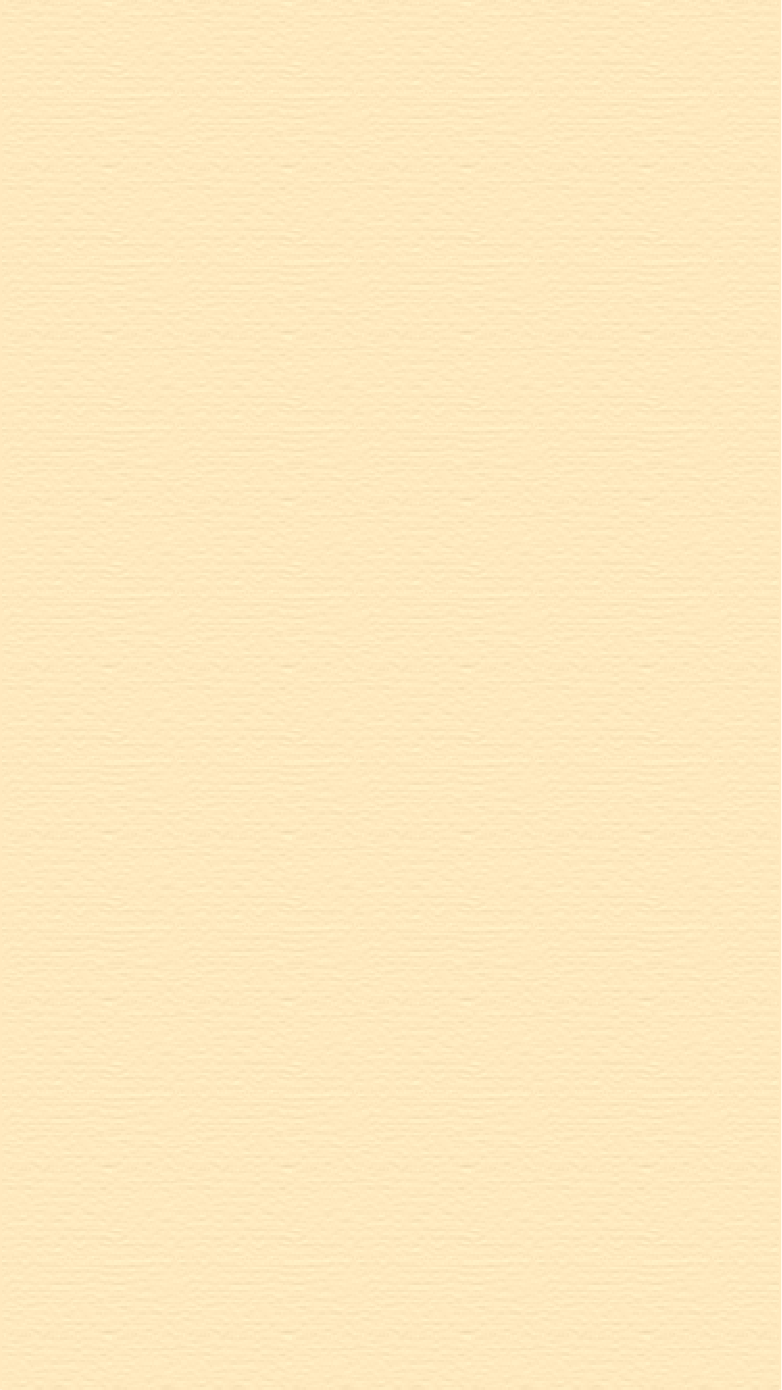
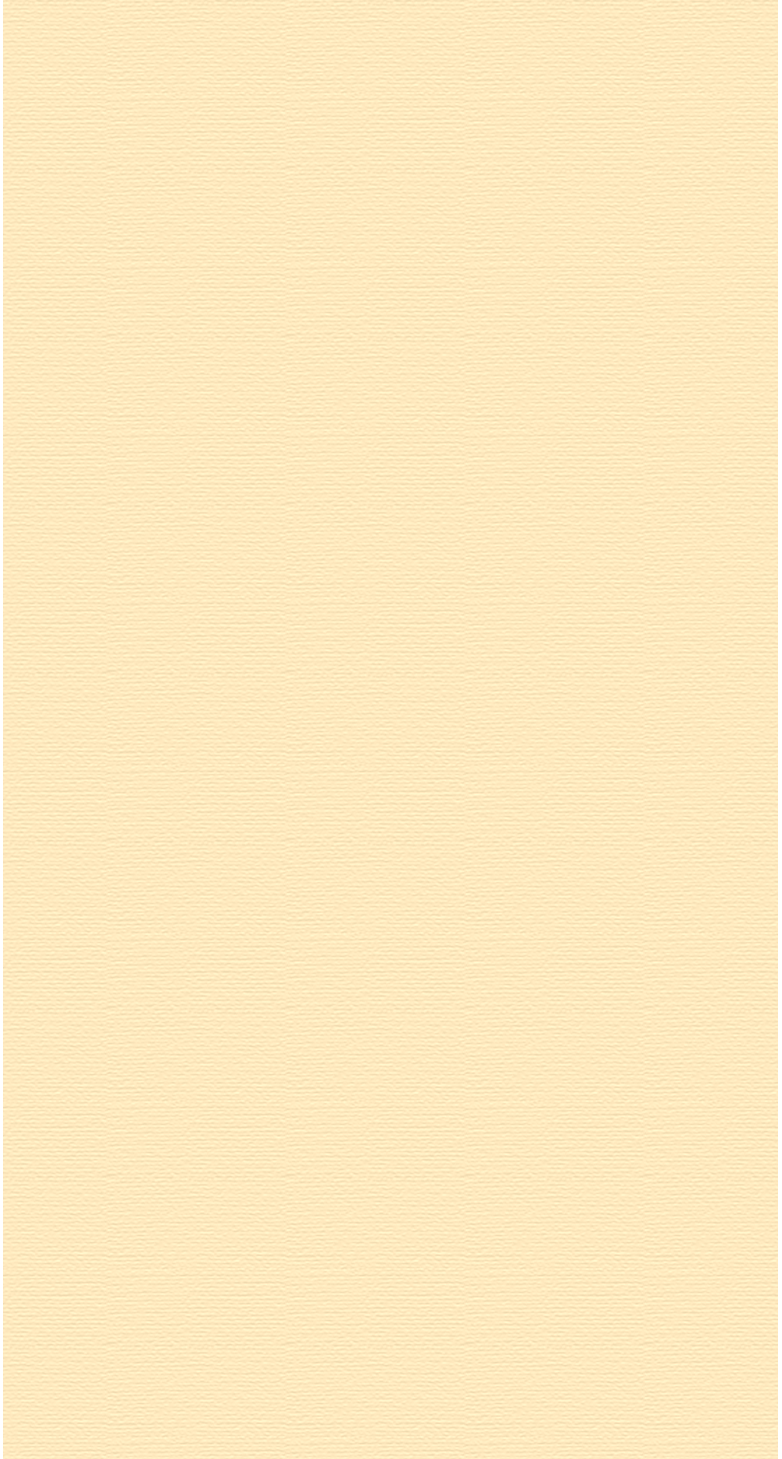
eibdeveranderingen?

Changed region(s): [[0.9821, 0.0, 1.0, 1.0], [0.0, 0.0, 0.0307, 1.0]]

diff --git a/css/stylesheet.css b/css/stylesheet.css
@@ -7,18 +7,26 @@ body {
     margin: 0;
     padding:0;
     color: black;
+    background-color: rgb(255, 233, 190);
 }
-
-
 
 @font-face {
     font-family: Agbalumo;
-    src: url(fonts/Agbalumo) format('ttf');
+    src: url(fonts/Agbalumo/Agbalumo-Regular.ttf);
 }
 
 @font-face {
     font-family: Acme;
-    src: url(fonts/Acme) format('ttf');
+    src: url(fonts/Acme/Acme-Regular.ttf);
+}
+
+@keyframes verschijn {
+    from {
+        opacity: 0;
+    }
+    to {
+        opacity: 1;
+    }
 }
 
 .navbar img { 
@@ -26,12 +34,12 @@ body {
     margin-left: 1em;
 }
 
-
 .navbar {
     display: flex;
     align-items: center;
     position: fixed;
-    background-color: rgba(74, 46, 0, 0.551)
+    background-color: rgba(74, 46, 0, 0.551);
+    transition: all 400ms ease;
 }
 
 .navbar a {
@@ -39,7 +47,7 @@ body {
     text-decoration: none;
     color: rgb(255, 255, 255);
     font-weight: 600;
-    font-family: 'Agbalumo', 'Lucida Sans', 'Lucida Sans Regular', 'Lucida Grande', 'Lucida Sans Unicode', Geneva, Verdana, sans-serif;
+    font-family: 'agbalumo','Franklin Gothic Medium', 'Arial Narrow', Arial, sans-serif
 }
 
 .navbar a:last-child,
@@ -53,13 +61,14 @@ body {
 .navbar a:last-child:hover,
 .navbar a:nth-last-child(2):hover {
     background-color: rgb(96, 138, 57);
+    transform: scale(1.1);
 }
 
 .navbar a:last-child:active,
 .navbar a:nth-last-child(2):active {
     background-color: rgb(62, 90, 37);
+    transform: scale(1.1);
 }
-
 
 .titel {
     display: flex;
@@ -69,6 +78,8 @@ body {
 .titel img {
     width: 90%;
     margin: 4em 2em 0 2em;
+    animation-name: verschijn;
+    animation-duration: 1.5s;
 }
 
 h1 {
@@ -78,7 +89,7 @@ h1 {
     color: rgb(55,79,32);
     font-size: 2em;
     margin-top: 0;
-    font-family: agbalumo;
+    font-family: 'Agbalumo';
 }
 
 .h1-avatar {
@@ -93,40 +104,11 @@ h1 {
     margin-bottom: 4em;
     margin-left: 1em;
 }
-/*
-.h1-container {
-    display: flex;
-    justify-content: center;
-
-}
-
-.h1-avatar-container img {
-    margin-left: 1em;
-    width: 12%;
-    height: 12%;
-    border: solid 3px red;
-}
-
-.h1-avatar-container{
-    display: flex;
-
-}
-
-.h1-avatar-container{
-    display: flex;
-    justify-content: center;
-}
-*/
-
-
-
 
 h2 {
     font-family: 'Acme';
     font-size: 1.5em;
-    margin-left: 1em;
-    margin-top: 0;
-    margin-bottom: 0;
+    margin: 0 0 0 1em;
 }
 
 .tekst1 {
@@ -138,21 +120,17 @@ h2 {
 
 .tekst1 p {
     margin-right: 1.2em;
-
 }
 
 .tekst1 img {
     width: 11em;
+    margin-right: 1em;
 }
 
 .info-voorbeelden p {
     text-align: center;
-    margin-right: 1em;
-    margin-left: 1em;
-    margin-top: 0;
-    margin-bottom: 0;
+    margin: 0 1em 0 1em;
 }
-
 
 .groenebalkon {
     display: flex;
@@ -198,6 +176,7 @@ h2 {
     display: flex;
     flex-direction: column;
     margin-top: 5em;
+    margin-bottom: 3em;
 }
 
 .cafe-container {
@@ -216,7 +195,7 @@ h2 {
     padding: 0 20px;
 }
 
-.afbeeldingpotcafe{
+.afbeeldingpotcafe {
     flex: 0;
 }
 
@@ -231,9 +210,6 @@ h2 {
     text-align: right;
     margin: 0;
 }
-.groenebalkon {
-    margin-top: 5em;
-}
 
 .actie-container {
     display: flex;
@@ -244,11 +220,11 @@ h2 {
 
 .actie-container p {
     margin-right: 1.2em;
-
 }
 
 .actie-container img {
     width: 10em;
+    margin-right: 1em;
 }
 
 h3 {
@@ -256,3 +232,6 @@ h3 {
     font-family: 'Acme';
 }
 
+ul{
+    margin-bottom: 3em;
+}

diff --git a/actie.html b/actie.html
@@ -11,7 +11,7 @@
         <nav class="navbar">
             <a href="index.html"><img src="afbeeldingen/logo.png" alt="Logo."></a>
             <a href="voorbeelden.html">Voorbeelden</a>
-            <a href="hoekanjijhelpen.html">Actie</a>
+            <a href="actie.html">Actie</a>
         </nav>
     </header>
     <main>
@@ -29,7 +29,7 @@
                 <img src="afbeeldingen/afbeelding4.png" alt="Afbeelding van een tuin.">
             </div>
         </article>
-        <section class="tips">
+        <section>
             <h3>Tips</h3>
             <ul>
                 <li>Haal kleine plantjes in huis ter decoratie.</li>

diff --git a/voorbeelden.html b/voorbeelden.html
@@ -11,7 +11,7 @@
         <nav class="navbar">
             <a href="index.html"><img src="afbeeldingen/logo.png" alt="Logo."></a>
             <a href="voorbeelden.html">Voorbeelden</a>
-            <a href="hoekanjijhelpen.html">Actie</a>
+            <a href="actie.html">Actie</a>
         </nav>
 </header>
 <main>
@@ -49,7 +49,6 @@
                     <h2>Groen cafe</h2>
                     <p>Het initiatief kan ook zakelijk worden toegepast zoals bij dit café. Het grote bos van planten maakt het café erg opvallend.</p>
                 </div>
-               
             </div>
         </div>
     </article>

diff --git a/index.html b/index.html
@@ -11,7 +11,7 @@
             <nav class="navbar">
                 <a href="index.html"><img src="afbeeldingen/logo.png" alt="Logo."></a>
                 <a href="voorbeelden.html">Voorbeelden</a>
-                <a href="hoekanjijhelpen.html">Actie</a>
+                <a href="actie.html">Actie</a>
             </nav>
     </header>
 <main>
